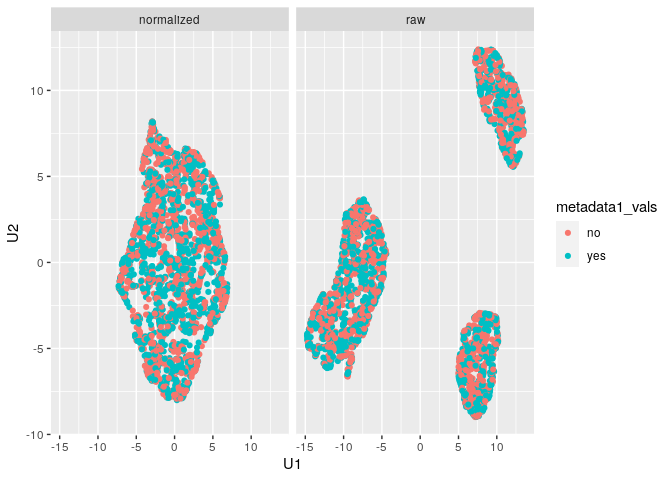
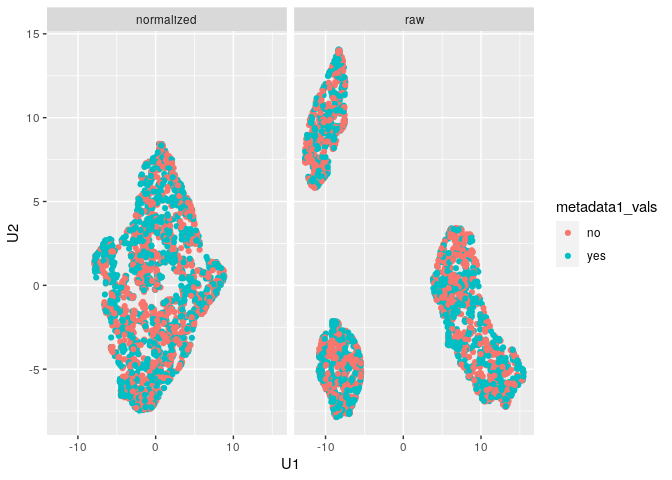
another readme update

diff --git a/README.md b/README.md
@@ -207,19 +207,19 @@ later):
 ``` r
 head(mx_umap$umap_data)
 #>      marker1_vals marker2_vals marker3_vals metadata1_vals slide_id table
-#> 435            13           16           27             no   slide1   raw
-#> 984            22           22           21             no   slide2   raw
-#> 2275           46           80           90            yes   slide4   raw
-#> 711            13           19           34             no   slide1   raw
-#> 2983           46           92           89             no   slide4   raw
-#> 2048           91           85           37            yes   slide3   raw
-#>             U1        U2
-#> 435  -9.388552 -6.352330
-#> 984  -9.053513  2.589063
-#> 2275  9.494781 -6.663205
-#> 711  -7.253349 -3.046887
-#> 2983  8.375387 -7.933107
-#> 2048  8.913563 10.573607
+#> 1996           92           99           71             no   slide3   raw
+#> 1859           92          100           42             no   slide3   raw
+#> 729            15           20           31            yes   slide1   raw
+#> 246            12           16           24             no   slide1   raw
+#> 1477           23           18           42            yes   slide2   raw
+#> 2790           55           99           96            yes   slide4   raw
+#>              U1         U2
+#> 1996 -11.267918  5.8442093
+#> 1859 -10.318700 11.6439601
+#> 729    8.146944 -2.8830670
+#> 246   14.230693 -6.2762288
+#> 1477   4.306106 -0.4170322
+#> 2790 -10.883546 -5.1366080
 ```
 
 And the `mx_dataset` object now includes the following attributes:
@@ -257,14 +257,14 @@ str(mx_umap)
 #>  $ otsu_table   : chr "both"
 #>  $ threshold    : chr "otsu"
 #>  $ umap_data    :'data.frame':   4800 obs. of  8 variables:
-#>   ..$ marker1_vals  : num [1:4800] 13 22 46 13 46 91 17 57 14 14 ...
-#>   ..$ marker2_vals  : num [1:4800] 16 22 80 19 92 85 13 95 22 23 ...
-#>   ..$ marker3_vals  : num [1:4800] 27 21 90 34 89 37 32 94 34 29 ...
+#>   ..$ marker1_vals  : num [1:4800] 92 92 15 12 23 55 84 15 55 42 ...
+#>   ..$ marker2_vals  : num [1:4800] 99 100 20 16 18 99 79 19 84 86 ...
+#>   ..$ marker3_vals  : num [1:4800] 71 42 31 24 42 96 38 24 86 94 ...
 #>   ..$ metadata1_vals: chr [1:4800] "no" "no" "yes" "no" ...
-#>   ..$ slide_id      : chr [1:4800] "slide1" "slide2" "slide4" "slide1" ...
+#>   ..$ slide_id      : chr [1:4800] "slide3" "slide3" "slide1" "slide1" ...
 #>   ..$ table         : chr [1:4800] "raw" "raw" "raw" "raw" ...
-#>   ..$ U1            : num [1:4800] -9.39 -9.05 9.49 -7.25 8.38 ...
-#>   ..$ U2            : num [1:4800] -6.35 2.59 -6.66 -3.05 -7.93 ...
+#>   ..$ U1            : num [1:4800] -11.27 -10.32 8.15 14.23 4.31 ...
+#>   ..$ U2            : num [1:4800] 5.844 11.644 -2.883 -6.276 -0.417 ...
 #>  $ umap_table   : chr "both"
 #>  - attr(*, "class")= chr "mx_dataset"
 ```
@@ -330,14 +330,14 @@ str(mx_var)
 #>  $ otsu_table   : chr "both"
 #>  $ threshold    : chr "otsu"
 #>  $ umap_data    :'data.frame':   4800 obs. of  8 variables:
-#>   ..$ marker1_vals  : num [1:4800] 13 22 46 13 46 91 17 57 14 14 ...
-#>   ..$ marker2_vals  : num [1:4800] 16 22 80 19 92 85 13 95 22 23 ...
-#>   ..$ marker3_vals  : num [1:4800] 27 21 90 34 89 37 32 94 34 29 ...
+#>   ..$ marker1_vals  : num [1:4800] 92 92 15 12 23 55 84 15 55 42 ...
+#>   ..$ marker2_vals  : num [1:4800] 99 100 20 16 18 99 79 19 84 86 ...
+#>   ..$ marker3_vals  : num [1:4800] 71 42 31 24 42 96 38 24 86 94 ...
 #>   ..$ metadata1_vals: chr [1:4800] "no" "no" "yes" "no" ...
-#>   ..$ slide_id      : chr [1:4800] "slide1" "slide2" "slide4" "slide1" ...
+#>   ..$ slide_id      : chr [1:4800] "slide3" "slide3" "slide1" "slide1" ...
 #>   ..$ table         : chr [1:4800] "raw" "raw" "raw" "raw" ...
-#>   ..$ U1            : num [1:4800] -9.39 -9.05 9.49 -7.25 8.38 ...
-#>   ..$ U2            : num [1:4800] -6.35 2.59 -6.66 -3.05 -7.93 ...
+#>   ..$ U1            : num [1:4800] -11.27 -10.32 8.15 14.23 4.31 ...
+#>   ..$ U2            : num [1:4800] 5.844 11.644 -2.883 -6.276 -0.417 ...
 #>  $ umap_table   : chr "both"
 #>  $ var_data     :Classes 'data.table' and 'data.frame':  12 obs. of  4 variables:
 #>   ..$ proportions: num [1:12] 0.9704 0.0296 0.9734 0.0266 0.8773 ...
@@ -391,9 +391,8 @@ plot_mx_umap(mx_umap,metadata_col = "slide_id")
 
 <img src="man/figures/README-mx_umap_slide-1.png" width="100%" />
 
-And we can also visualize the results of the variance proportions (note
-that this is sample data, hence the proportions of variance at the slide
-level are \(\approx 0\)):
+And we can also visualize the results of the variance proportions after
+normalization:
 
 ``` r
 plot_mx_proportions(mx_var)
